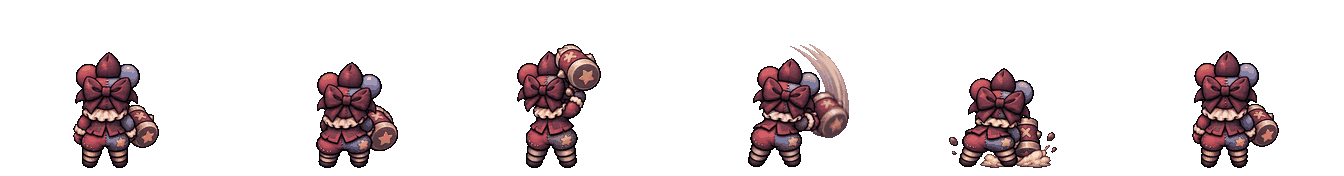
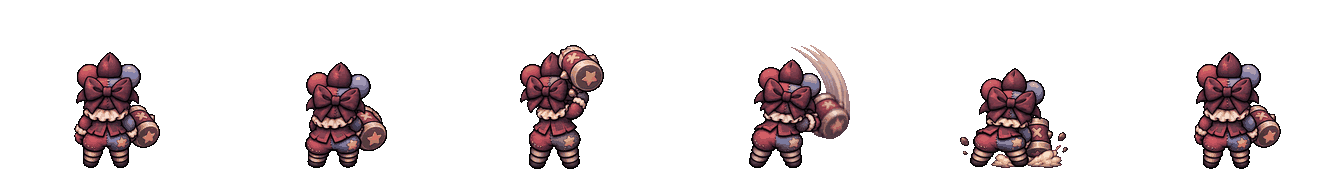
PATCHWORK pixel: căn khung theo khớp hình thân (không giật lùi), chân bám đất
Claude-Session: https://claude.ai/code/session_016VkJ26f22ubevy4EnREsEV

diff --git a/tools/demo-cat-6khung-pixel.py b/tools/demo-cat-6khung-pixel.py
@@ -1,10 +1,11 @@
+# Cắt 6 khung + căn bằng khớp hình phần thân (cổ áo->chân) với khung 1 => thân không giật
 from PIL import Image
 import numpy as np, sys
 from scipy import ndimage
 S='/tmp/claude-0/-home-claude/07b38427-7433-5f9d-9534-8e5dd3f7e53b/scratchpad/'
 V='/root/neon/docs/demo-hop-tuong/nguon-chatgpt/v3/'
 src,n,name=sys.argv[1],int(sys.argv[2]),sys.argv[3]
-im=Image.open(V+src).convert('RGBA'); arr=np.array(im); m=arr[:,:,3]>40
+im=Image.open(V+src).convert('RGBA'); arr=np.array(im).astype(np.float32); m=arr[:,:,3]>40
 lab,k=ndimage.label(ndimage.binary_dilation(m,iterations=2)); lab=lab*m
 W=im.width; centers=[(i+0.5)*W/n for i in range(n)]
 sizes=ndimage.sum(m,lab,range(1,k+1)); com=ndimage.center_of_mass(m,lab,range(1,k+1))
@@ -13,35 +14,65 @@ for i in range(k):
     if sizes[i]<30: continue
     groups[int(np.argmin([abs(com[i][1]-c) for c in centers]))].append(i+1)
 masks=[np.isin(lab,g) for g in groups]
-# tỉ lệ theo chiều cao thân khung đầu
-ys=np.nonzero(masks[0].any(1))[0]; sc=116/(ys[-1]-ys[0])
-ground=max(np.nonzero(mm.any(1))[0][-1] for mm in masks)
+def layer(mm):
+    a=arr.copy(); a[:,:,3]=np.where(mm,a[:,:,3],0); return a
+L=[layer(mm) for mm in masks]
+# mẫu: khung 0, vùng thân giữa (bỏ hai bên để tránh búa)
+ys,xs=np.nonzero(masks[0]); t0,b0=ys.min(),ys.max(); H0=b0-t0
+lab0,k0=ndimage.label(masks[0]); big=np.argmax(ndimage.sum(masks[0],lab0,range(1,k0+1)))+1
+bx=np.nonzero((lab0==big)[b0-30:b0+1].any(0))[0]; cx0=int(np.median(np.nonzero((lab0==big)[b0-30:b0+1])[1]))
+y1,y2=int(t0+H0*0.40),int(b0+1); x1,x2=cx0-int(H0*0.16),cx0+int(H0*0.16)
+def feat(a):  # rgb premultiplied + alpha
+    al=a[:,:,3:4]/255.0; return np.concatenate([a[:,:,:3]*al/255.0,al],2)
+T=feat(L[0][y1:y2,x1:x2])
+shifts=[(0,0)]
+for j in range(1,n):
+    F=feat(L[j]); best=None
+    c0=int(centers[j]-centers[0])
+    for dy in range(-60,41,2):
+        for dx in range(c0-90,c0+91,2):
+            P=F[y1+dy:y2+dy,x1+dx:x2+dx]
+            if P.shape!=T.shape: continue
+            e=np.mean((P-T)**2)
+            if best is None or e<best[0]: best=(e,dx,dy)
+    # tinh chỉnh 1px
+    _,bxx,byy=best
+    for dy in range(byy-2,byy+3):
+        for dx in range(bxx-2,bxx+3):
+            P=F[y1+dy:y2+dy,x1+dx:x2+dx]
+            if P.shape!=T.shape: continue
+            e=np.mean((P-T)**2)
+            if e<best[0]: best=(e,dx,dy)
+    shifts.append((best[1],best[2]))
+print('shifts',shifts)
+sc=116/H0 if 'nosc' not in sys.argv else 1
+# chiều cao thân khung 0 (không tính búa trên cao) ~ dùng như bản cũ
+ys0=np.nonzero(masks[0].any(1))[0]; sc=116/(ys0[-1]-ys0[0])
 FW,FH=224,176
 frames=[]
-for mm in masks:
-    ys=np.nonzero(mm.any(1))[0]; gb=ys[-1]
-    # chân: hàng dưới cùng của khối lớn nhất (thân)
-    lab2,k2=ndimage.label(mm); big=np.argmax(ndimage.sum(mm,lab2,range(1,k2+1)))+1; body=lab2==big
-    by=np.nonzero(body.any(1))[0][-1]; yy,xx=np.nonzero(body[by-25:by+1]); cx=np.median(xx)
-    a=arr.copy(); a[:,:,3]=np.where(mm,a[:,:,3],0)
-    x0,x1=np.nonzero(mm.any(0))[0][[0,-1]]; y0=ys[0]
-    c=Image.fromarray(a,'RGBA').crop((x0,y0,x1+1,gb+1))
-    c2=c.resize((max(1,round(c.width*sc)),max(1,round(c.height*sc))),Image.LANCZOS)
+for j in range(n):
+    dx,dy=shifts[j]; a=L[j].astype(np.uint8)
+    img=Image.fromarray(a,'RGBA')
+    # đặt sao cho điểm (cx0,b0) của khung0 tương ứng (cx0+dx,b0+dy) ở khung j nằm tại (FW/2, FH-8)
+    lj,kj=ndimage.label(masks[j]); bj=np.argmax(ndimage.sum(masks[j],lj,range(1,kj+1)))+1
+    ax,ay=cx0+dx,np.nonzero((lj==bj).any(1))[0][-1]
+    yy,xx=np.nonzero(masks[j]); X0,X1,Y0,Y1=xx.min(),xx.max()+1,yy.min(),yy.max()+1
+    c=img.crop((X0,Y0,X1,Y1)); c2=c.resize((max(1,round(c.width*sc)),max(1,round(c.height*sc))),Image.LANCZOS)
     a2=np.array(c2); al=a2[:,:,3]>110
     q=Image.fromarray(a2[:,:,:3]).quantize(colors=40,method=Image.Quantize.MEDIANCUT,dither=Image.Dither.NONE).convert('RGB')
     p=Image.fromarray(np.dstack([np.array(q),(al*255).astype('uint8')]),'RGBA')
-    F=Image.new('RGBA',(FW,FH),(0,0,0,0))
-    px=int(FW/2-(cx-x0)*sc); py=int(FH-8-(by-y0)*sc)
-    assert px>=0 and px+p.width<=FW and py>=0 and py+p.height<=FH+8, (px,py,p.size)
-    F.paste(p,(px,py),p); frames.append(F)
+    px=round(FW/2-(ax-X0)*sc); py=round(FH-8-(ay-Y0)*sc)
+    assert px>=0 and px+p.width<=FW and py>=0 and py+p.height<=FH+8,(j,px,py,p.size)
+    F=Image.new('RGBA',(FW,FH),(0,0,0,0)); F.paste(p,(px,py),p); frames.append(F)
 sheet=Image.new('RGBA',(FW*n,FH),(0,0,0,0))
 for i,f in enumerate(frames): sheet.paste(f,(i*FW,0),f)
 sheet.save(V+name+'.png')
 s=Image.new('RGBA',sheet.size,(96,100,108,255)); s.alpha_composite(sheet); s.resize((sheet.width*2,sheet.height*2),Image.NEAREST).convert('RGB').save(S+name+'_view.png')
-durs=[300,140,180,60,260,200][:n]
-Z=3; out=[]; dd=[]
+durs=[300,140,180,60,260,200][:n]; Z=3; out=[]; dd=[]
 for r in range(2):
     for f,d in zip(frames,durs):
-        b=Image.new('RGBA',f.size,(96,100,108,255)); b.alpha_composite(f); out.append(b.resize((FW*Z,FH*Z),Image.NEAREST).convert('RGB')); dd.append(d)
+        b=Image.new('RGBA',f.size,(96,100,108,255)); b.alpha_composite(f)
+        g=b.resize((FW*Z,FH*Z),Image.NEAREST).convert('RGB')
+        from PIL import ImageDraw; ImageDraw.Draw(g).line((FW*Z//2,0,FW*Z//2,FH*Z),fill=(70,74,80))
+        out.append(g); dd.append(d)
 out[0].save(S+name+'.gif',save_all=True,append_images=out[1:],duration=dd,loop=0)
-print('ok',sc)
